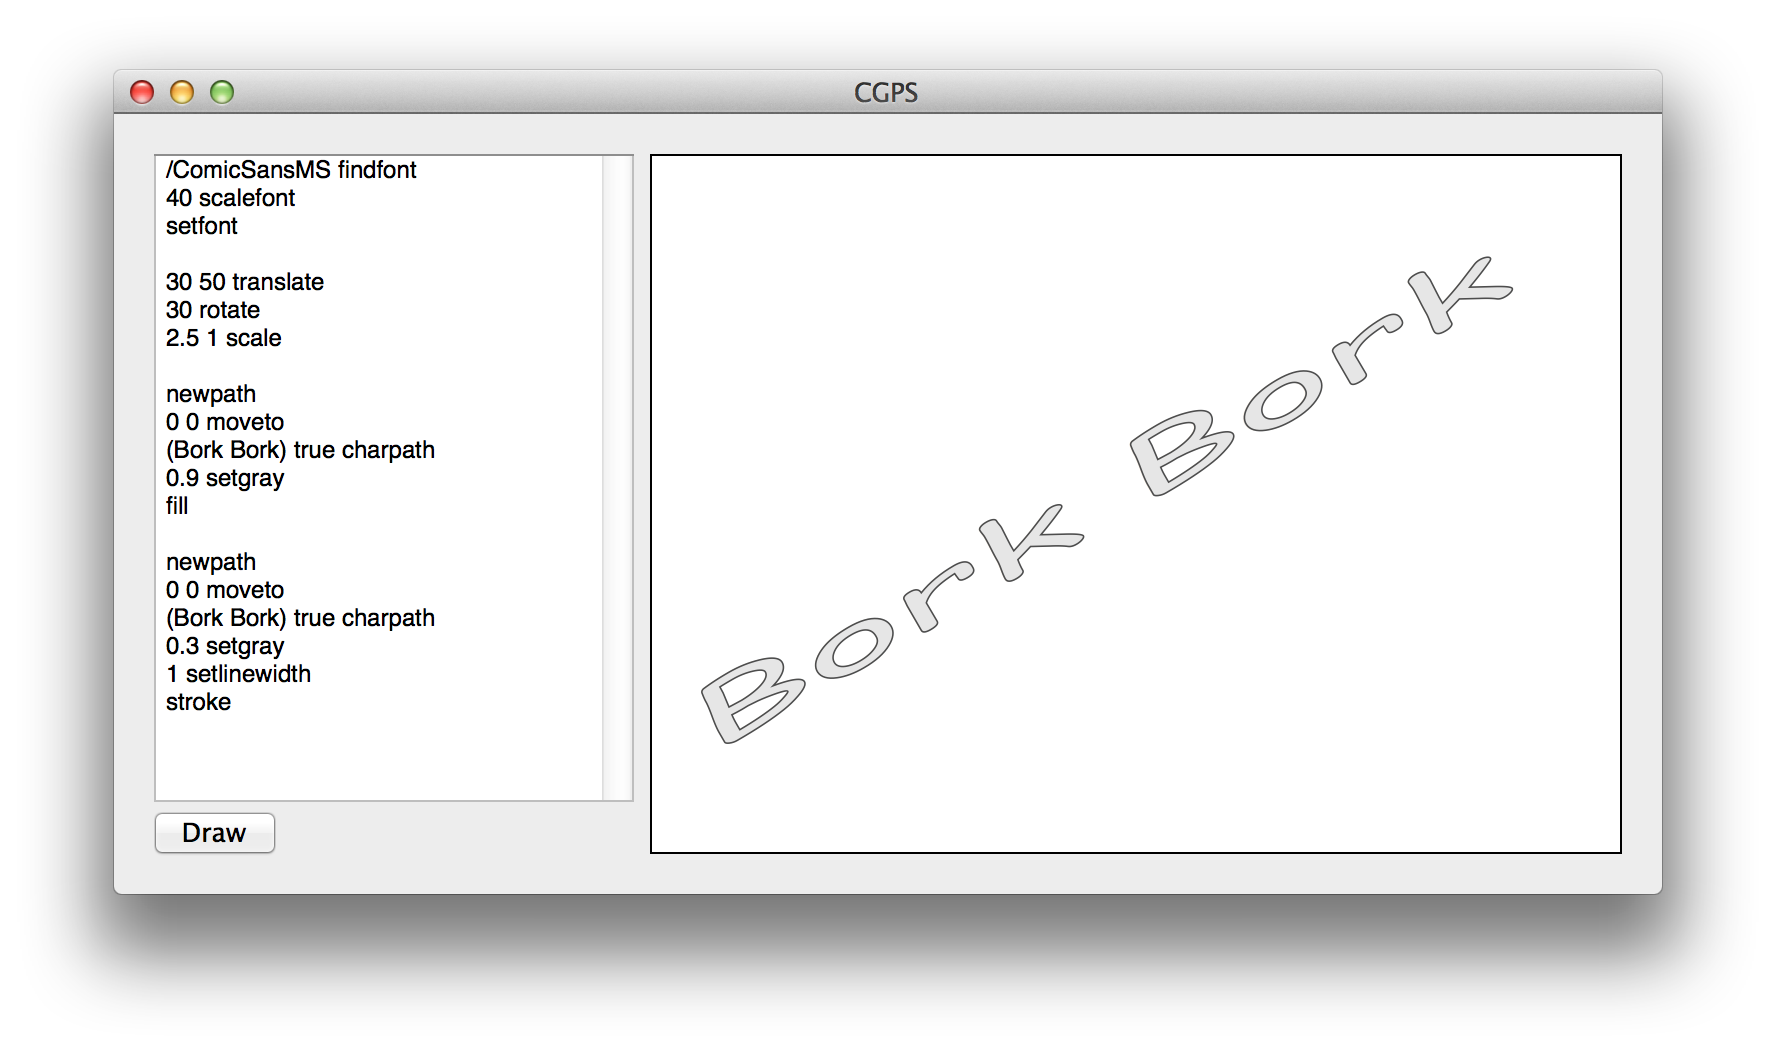
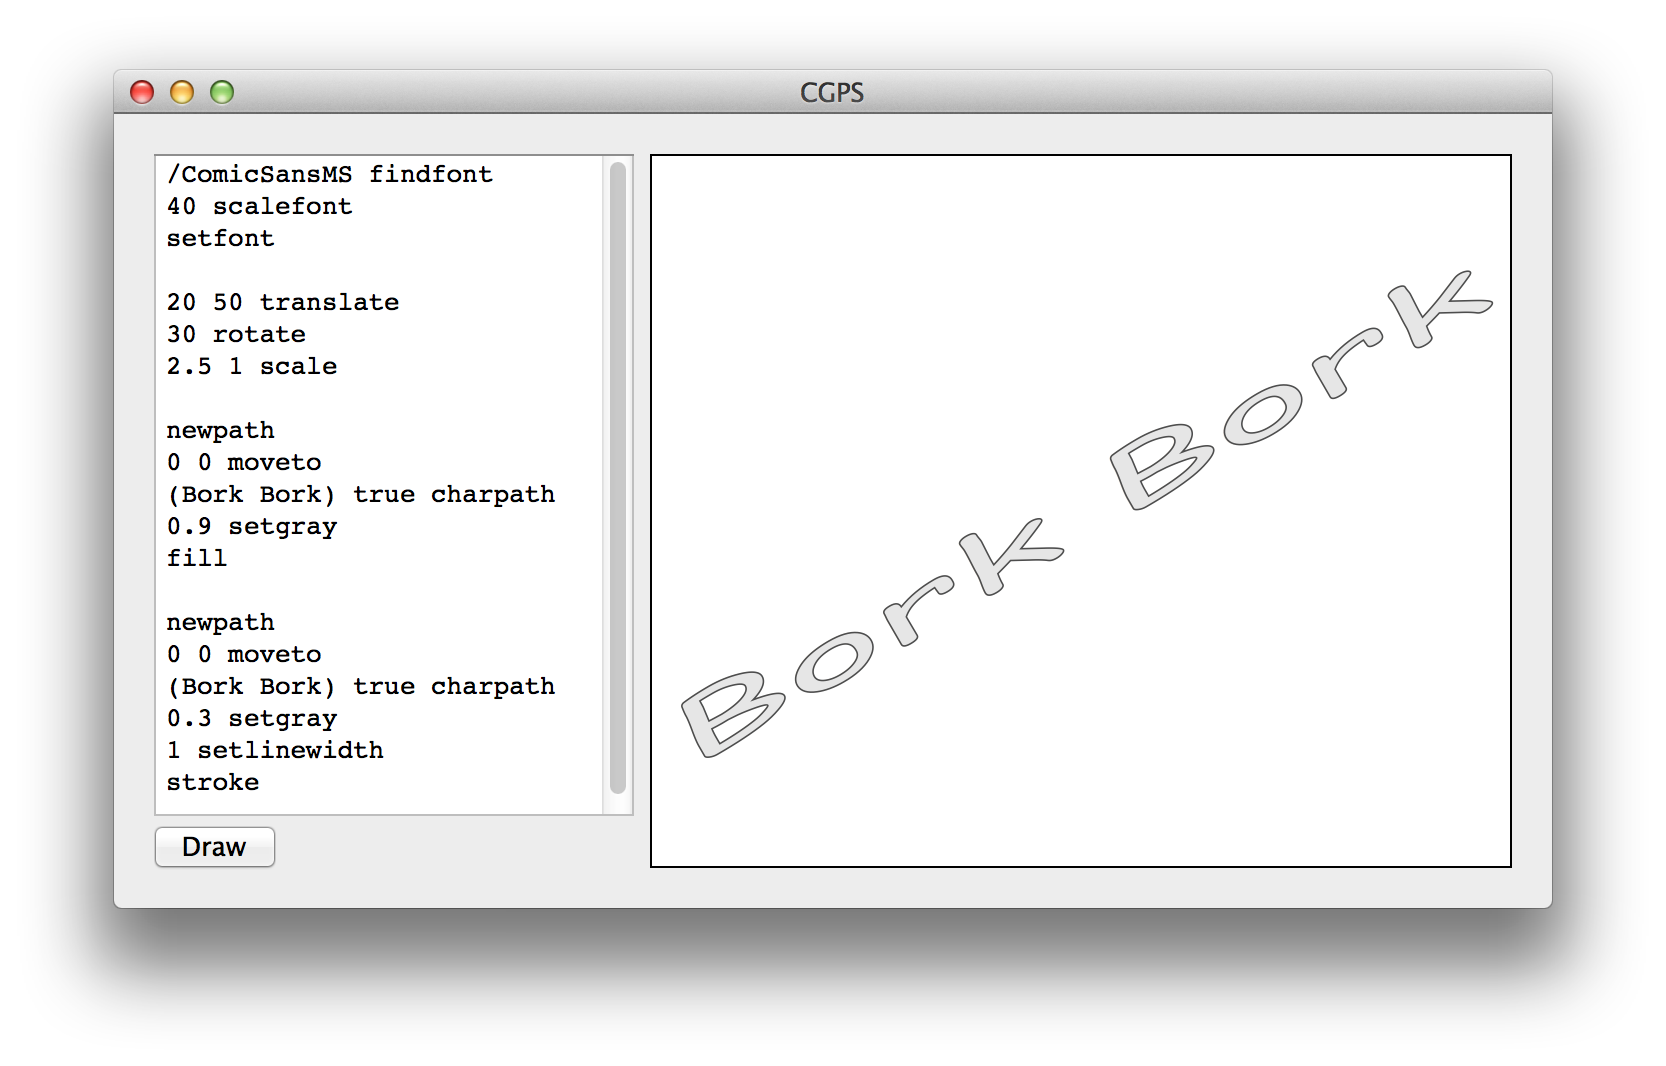
Set font for textfield. Updated screen shot.

Changed region(s): [[0.0624, 0.0608, 0.9364, 0.8517]]

diff --git a/CGPS/AppDelegate.m b/CGPS/AppDelegate.m
@@ -22,7 +22,7 @@ static NSString *ps =
 "40 scalefont\n"
 "setfont\n"
 "\n"
-"30 50 translate\n"
+"20 50 translate\n"
 "30 rotate\n"
 "2.5 1 scale\n"
 "\n"
@@ -68,8 +68,6 @@ static NSString *ps =
     bool converted = CGPSConverterConvert (converter, provider, consumer, NULL);
     
     if (converted) {
-        NSLog (@"YAY");
-    } else {
         NSLog (@"BOO");
     }
     
